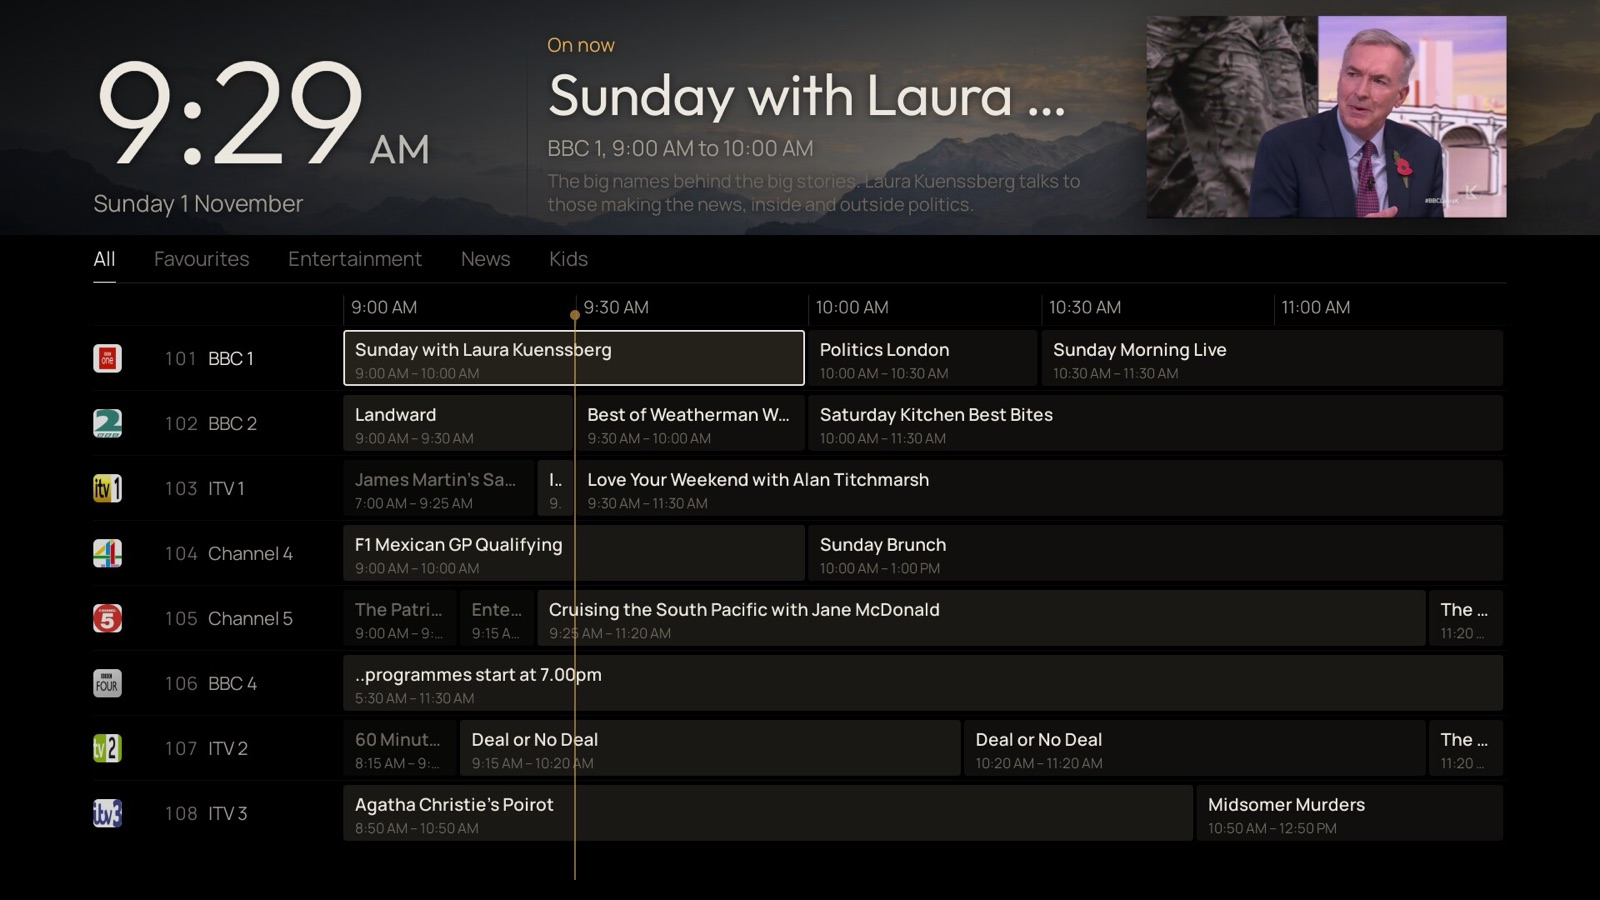
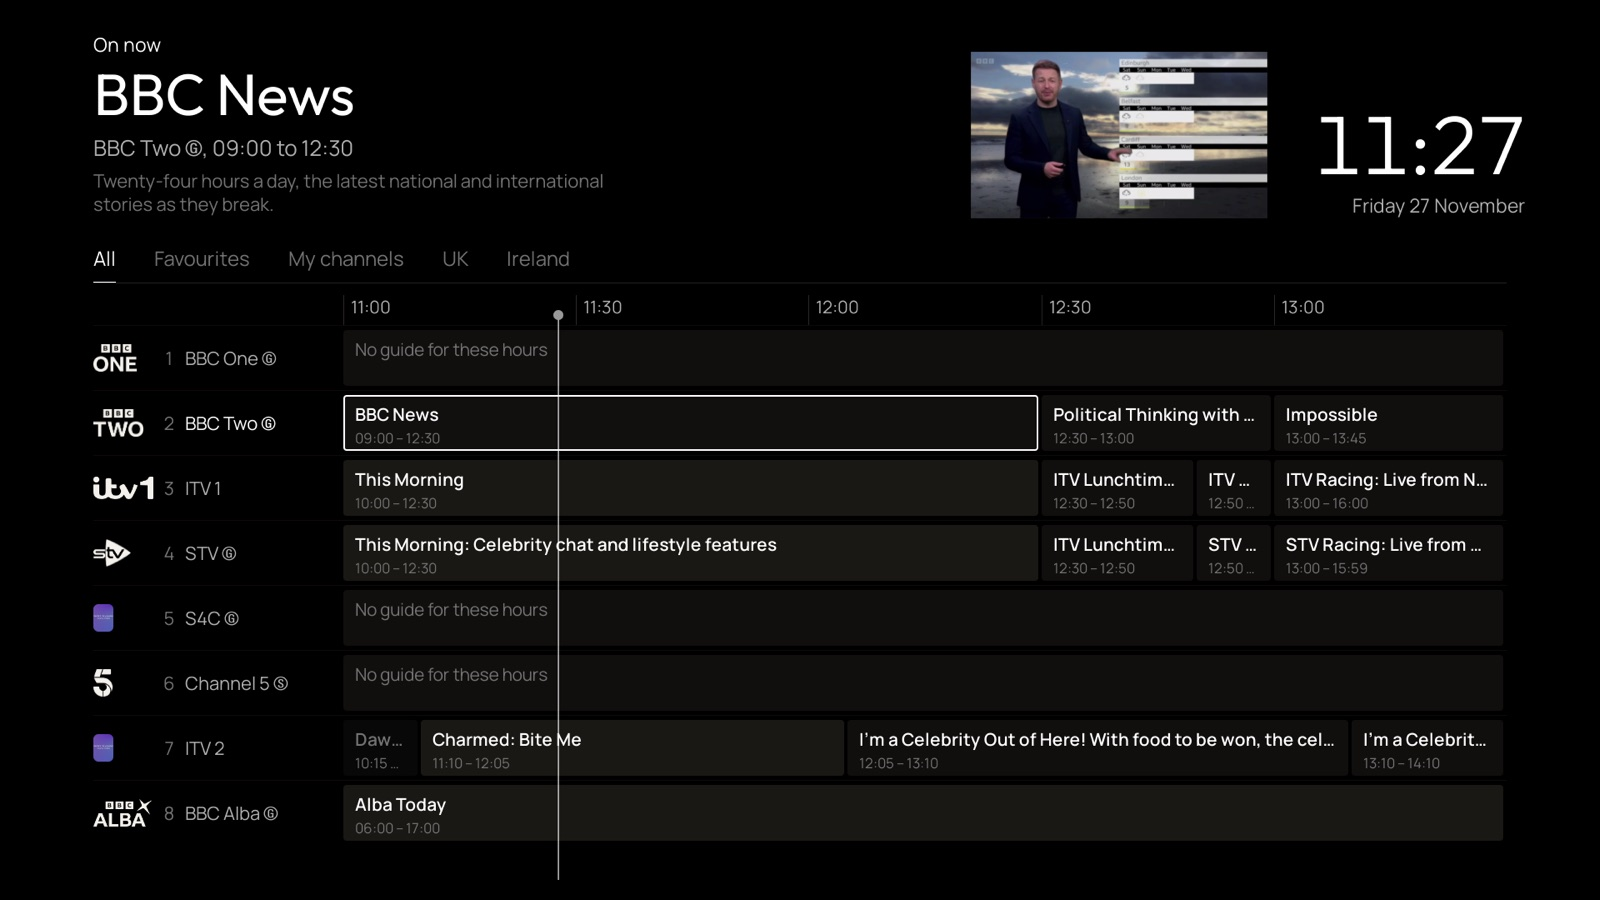
Docs: the Internet TV guide and preview in a tile, retaken on a C2 with the Free-TV list
The guide and the row previewing a channel showed stretched logos and paid
sports channels; they are retaken on an OLED42C24LA with free channels and
their logos, the weather's place left out.

diff --git a/docs/dashboard/internet-tv.md b/docs/dashboard/internet-tv.md
@@ -95,13 +95,13 @@ When opening a channel from the Internet TV row or live preview, playback opens 
 * **Playback:** An MPEG-TS channel plays in Glasshouse Home's own player, which reads the stream through the Glasshouse server on the TV. When the provider closes the stream or sends nothing for 15 seconds, the server asks for it again and joins it up, so the picture plays on from what is buffered. A picture that freezes with video still buffered is stepped on after a second and a half and reopened after four seconds, and when the stream itself falls behind, the picture pauses before the buffer runs out and waits until a few seconds are buffered, rather than stuttering. A channel starts once a couple of seconds are buffered, and one that keeps running dry waits for more each time; Home remembers that for the channel, and how often the provider's channels run dry, so the next time it starts with what it needed. A stream that stops arriving, or arrives slower than it plays, is opened again, with the last picture held on screen meanwhile. Where the provider offers a channel as both HLS and MPEG-TS, one that keeps dropping or freezing switches to the other and starts that way next time. A channel that has played keeps being retried for 20 minutes, and a network outage is waited out. A stretch missing from the stream is jumped over as soon as the picture reaches it. When a channel has both AAC and Dolby (AC-3 or E-AC-3) sound, Home's player plays the AAC track. A channel the provider refuses on opening is tried again before Home gives up on it. HLS channels, paused live TV, satellite tuner channels, a channel whose video is neither H.264 nor HEVC, and one Home's player fails to decode twice in a row play in the TV's own player.
 * **Preview in the tile:** With **Preview in the tile** enabled under Live preview settings, channels play directly inside their Home tile. Pressing **OK** smoothly expands the video to full screen, and pressing **Back** returns it to the tile without opening a new stream.
 
-![An IPTV channel previewing in its tile on a G3](../screenshots/iptv-preview-in-tile.jpg)
+![The Internet TV row on a C2 in the Alternative View: BBC One previewing in its tile, then BBC Two, ITV1, STV, BBC Alba, BBC Four and BBC Scotland with their logos, what is on now and next, and the guide at the end](../screenshots/iptv-preview-in-tile.jpg)
 
 ## Electronic Programme Guide (EPG)
 
 Whenever the lineup contains channels, an **IPTV Guide** tile remains accessible on the Internet TV row (even if no channels are currently starred):
 
-![The guide on a G3](../screenshots/iptv-home-guide.jpg)
+![The guide on a C2: BBC News on BBC Two in focus and previewing at the top, and the lineup's channels with their logos down the left over two and a half hours](../screenshots/iptv-home-guide.jpg)
 
 * **EPG grid view:** Selecting **IPTV Guide** (or pressing **Info** while on the Internet TV row) displays a 2.5-hour programme timeline starting 30 minutes before the current time, marked with an amber vertical line at the current time.
 * **Navigation:**
